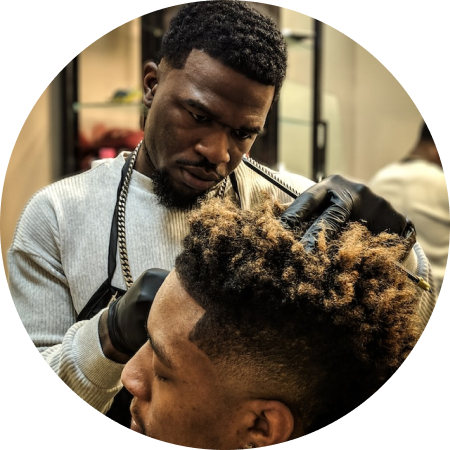
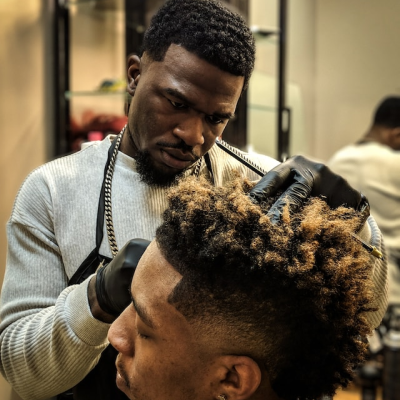
section 'Team' responsive | OK

diff --git a/src/components/sections/Team/team.styled.jsx b/src/components/sections/Team/team.styled.jsx
@@ -1,33 +1,52 @@
 import styled from "styled-components";
 
 export const BoxAvatar = styled.div`
-	width: 60%;
 	padding: 24px;
+	width: 35%;
 
-	display: flex;
-	gap: 1.5rem;
-
-	border-radius: 300px;
-	border-bottom-right-radius: 0;
-	background-color: ${({ theme }) => theme.colors.main};
-	box-shadow: 8px 11px 19px 5px rgba(0, 0, 0, 0.25);
-`;
-export const AvatarImage = styled.figure`
-	width: 40%;
-	img {
-		width: 100%;
-	}
-`;
-
-export const AvatarDetails = styled.div`
-	width: 50%;
 	display: flex;
 	flex-direction: column;
 	justify-content: center;
-	align-items: flex-start;
+	align-items: center;
+	gap: 1.5rem;
+
+	background-color: ${({ theme }) => theme.colors.main};
+	box-shadow: 8px 11px 19px 5px rgba(0, 0, 0, 0.25);
+	border-radius: 32px;
+
+	@media (max-width: 1000px) {
+		width: 50%;
+	}
+
+	@media (max-width: 710px) {
+		width: 70%;
+	}
+
+	@media (max-width: 500px) {
+		width: 95%;
+	}
+
+	img {
+		width: 60%;
+		border-radius: 50%;
+
+		@media (max-width: 1000px) {
+			width: 80%;
+		}
+	}
+`;
+
+export const AvatarImage = styled.figure``;
+
+export const AvatarDetails = styled.div`
+	display: flex;
+	flex-direction: column;
+	justify-content: center;
+	align-items: center;
 	gap: 1.5rem;
 
 	h4 {
+		text-align: center;
 		text-transform: capitalize;
 		font-family: ${({ theme }) => theme.fonts.fm.asap};
 		font-weight: ${({ theme }) => theme.fonts.fw.md};
@@ -35,6 +54,7 @@ export const AvatarDetails = styled.div`
 	}
 
 	p {
+		text-align: center;
 		color: ${({ theme }) => theme.colors.gray};
 		font-weight: ${({ theme }) => theme.fonts.fw.rg};
 		font-size: min(1rem, 3.5vw);

diff --git a/src/components/sections/Team/index.jsx b/src/components/sections/Team/index.jsx
@@ -56,9 +56,7 @@ export default function Team() {
 			</h3>
 
 			<S.BoxAvatar>
-				<S.AvatarImage>
-					<img src={barber.image.lg} alt={`Avata de ${barber.name}`} />
-				</S.AvatarImage>
+				<img src={barber.image.lg} alt={`Avata de ${barber.name}`} />
 
 				<S.AvatarDetails>
 					<h4>
@@ -72,7 +70,7 @@ export default function Team() {
 
 					<p>{barber.description}</p>
 
-					<Metric sizeNumber="2">
+					<Metric sizeNumber="2" alignCenter>
 						<span className="number">{barber.experience}</span>
 						<span className="caption">Anos de experiência</span>
 					</Metric>

diff --git a/src/styles/components/Metric.jsx b/src/styles/components/Metric.jsx
@@ -3,6 +3,7 @@ import styled from "styled-components";
 const Metric = styled.div`
 	display: flex;
 	flex-direction: column;
+	align-items: ${(props) => (props.alignCenter ? "center" : "flex-start")};
 
 	span {
 		color: ${({ theme }) => theme.colors.primary};
